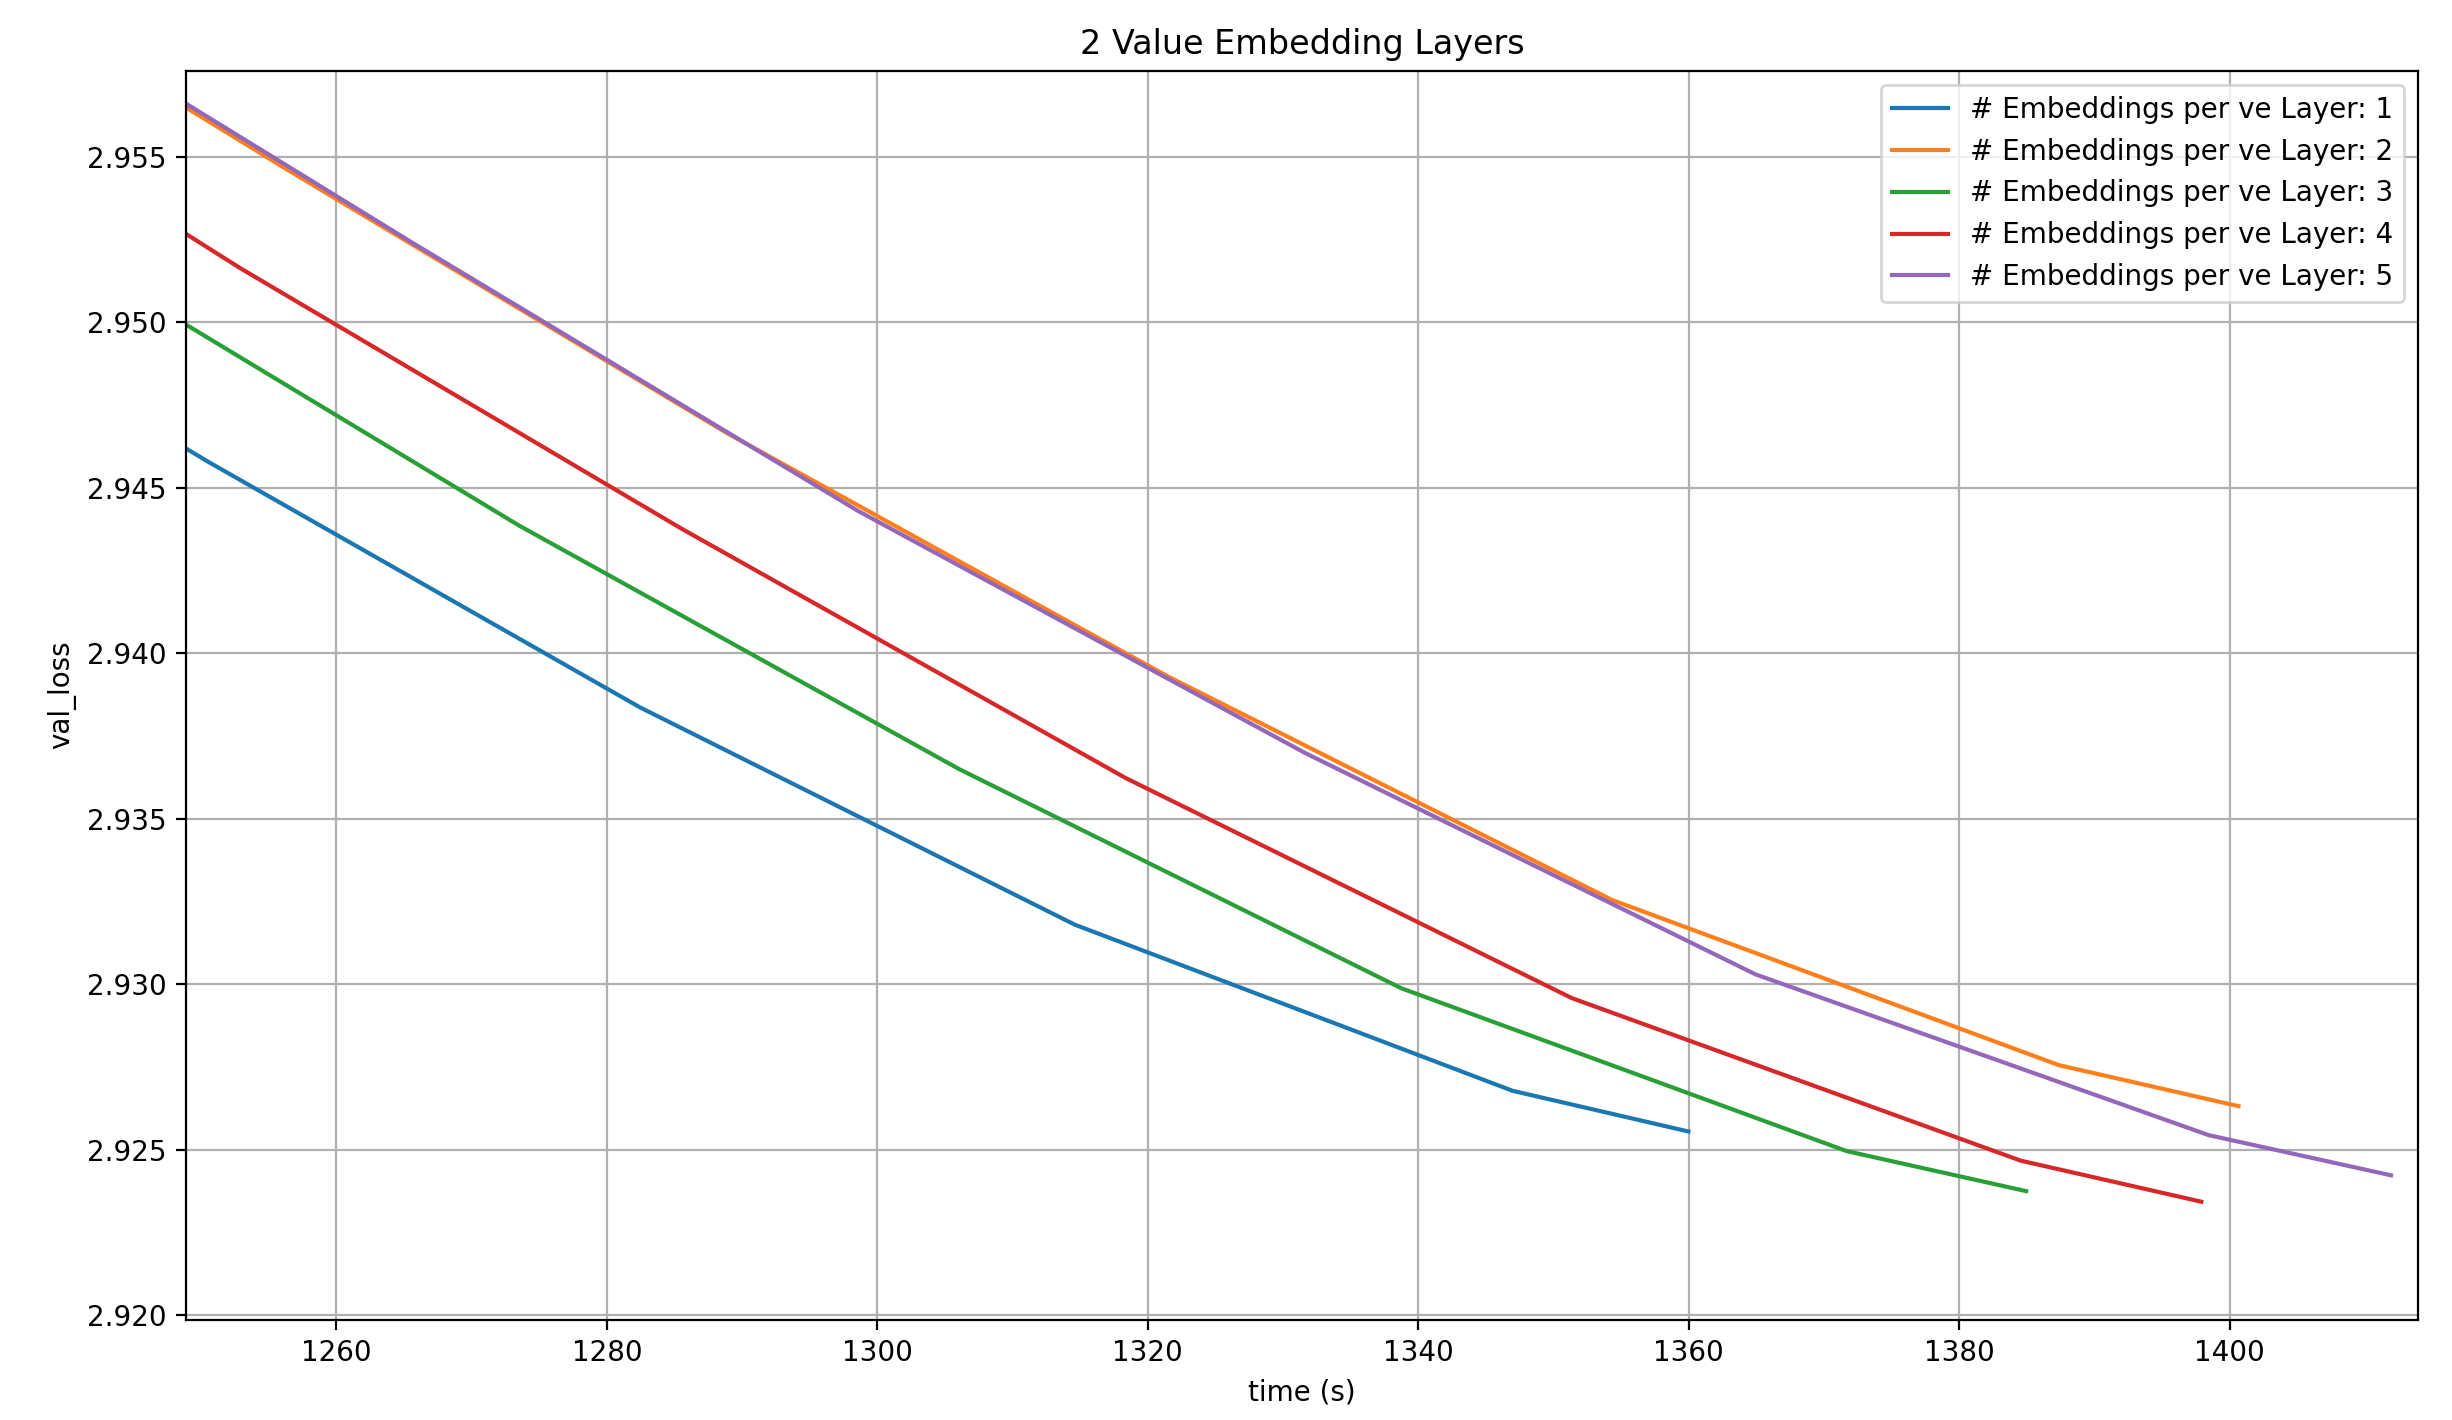
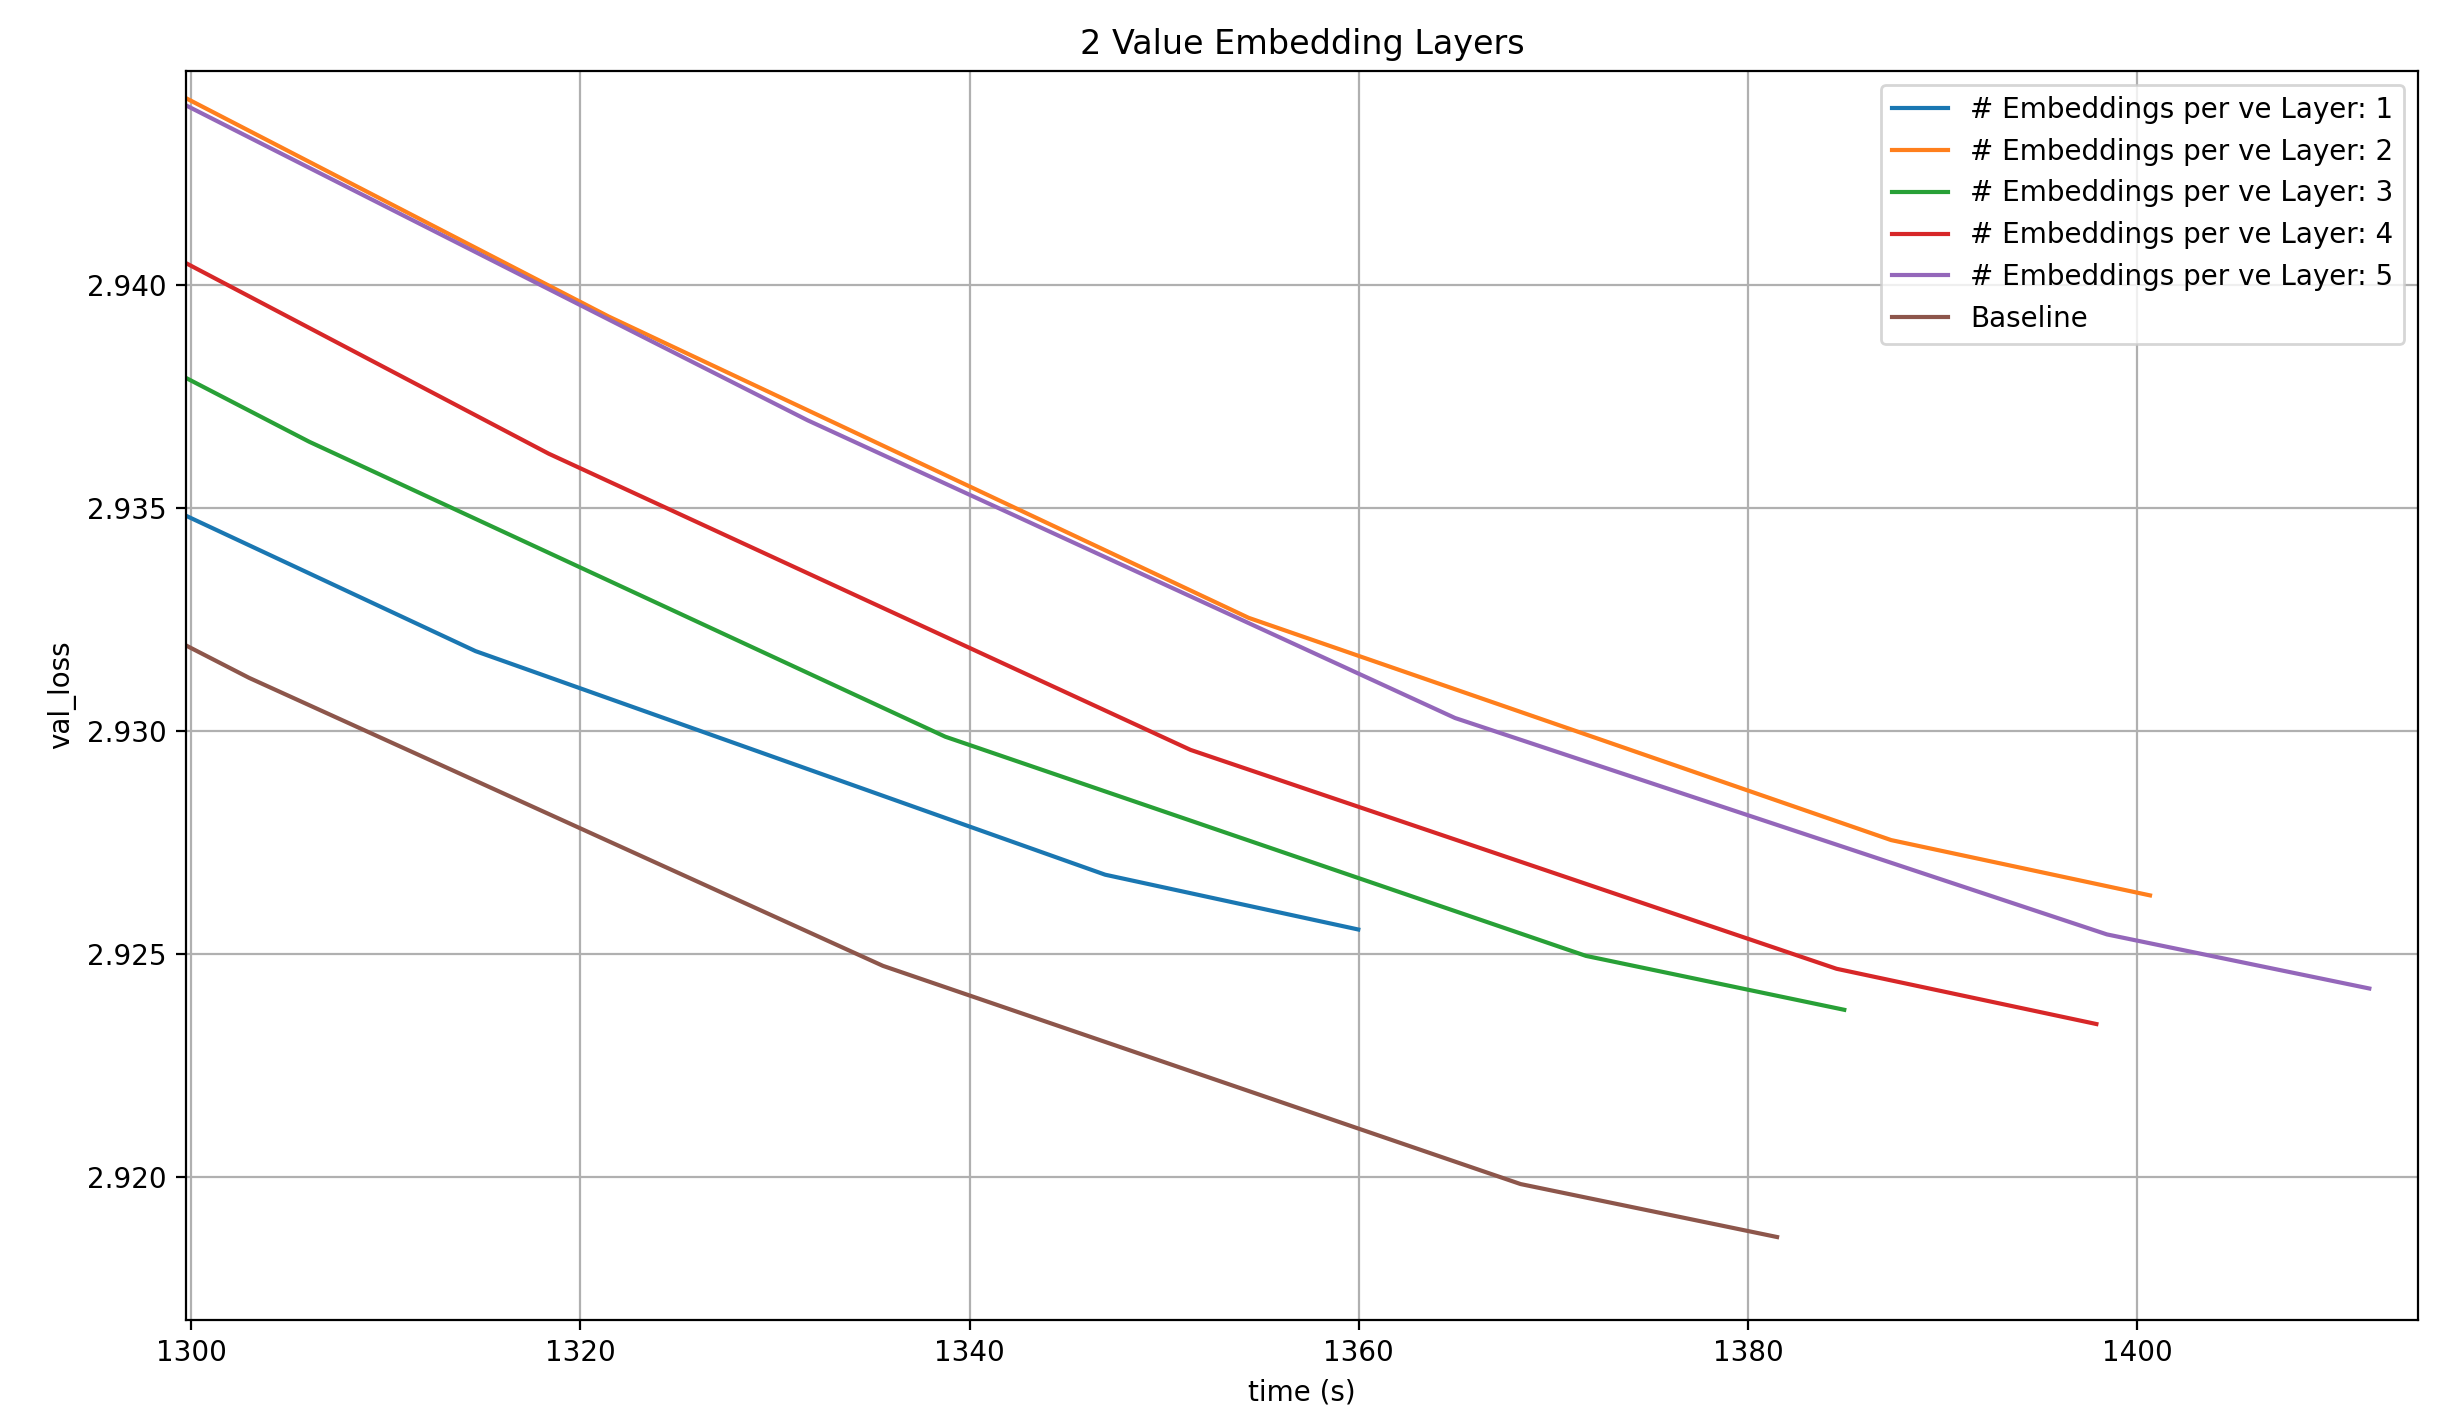
modded-nanogpt-others-ideas: small progress

diff --git a/contents/modded-nanogpt-others-ideas/article.md b/contents/modded-nanogpt-others-ideas/article.md
@@ -71,7 +71,25 @@ Let's look at the same normalization, but over the columns:
 
 The trend here is very strong: the more Value Embeddings we have, the lower the loss. This tends to happen more clearly when the number of Embedding Modules per Value Embedding is higher, showing again that each extra Embedding Module per Value Embedding gives more oomph if there are more Value Embeddings, but that trend isn't completely consistent.
 
-TODO: plots over time
+Of course, this is modded-nanogpt, so we have to look at the wallclock times. I will do this separately for every number of Value Embeddings, to make the plots a bit more readable. I will keep the run with 4 Value Embeddings and 1 Embeding Module per Value Embedding in each of the plots, because it is the baseline.
+
+![Val loss time 1 VE](images/val_loss_time_1ve.png)
+
+With one Value Embedding, none of the runs even come close to the baseline.
+
+![Val loss time 2 VE](images/val_loss_time_2ve.png)
+
+With two Value Embeddings, the same is true.
+
+![Val loss time 3 VE](images/val_loss_time_3ve.png)
+
+Three Value Embeddings with a single Embedding Module each is better than four Value Embeddings with one Embedding Module each over most of the run, but doesn't reach the target loss in the given number of steps. I did make this comparison [in this article](https://snimu.github.io/2025/10/07/modded-nanogpt-value-embeddings.html), where I showed that this isn't a record.
+
+![Val loss time 4 VE](images/val_loss_time_4ve.png)
+
+With four Value Embeddings, the 8xH100 clearly start reaching their limit, and while the per-step loss gets lower, the wallclock time to a loss of 2.92 get worse and worse. In fact, the reason I didn't try five Value Embeddings is that the node ran out of memory.
+
+In summary, these techniques do not lead to a new record.
 
 ### Multiple Embedding Modules per Value Embedding, one Value Embedding applied to multiple layers
 
@@ -113,4 +131,23 @@ The above plot shows that no, this isn't the case.
 
 What is interesting about it is that smaller embeddings reduce the runtime so much that they reach the same loss faster than the larger embeddings. However, almost none of them even cross the 2.92 loss target, so it hardly matters.
 
-One possible explanation for the underperformance of these techniques is that a linear transformation of a bunch of vectors, or a bunch of linear transformations of a single vector, just doesn't allow for much expressive power. So I tried to also use ReLU after the linear transformation. In the 1024->1024 case, this allows the different linear transformations to set different parts of the single Embedding Module to zero, while in the other projections, the single linear transformation is now capable of 
+One possible explanation for the underperformance of these techniques is that a linear transformation of a bunch of vectors, or a bunch of linear transformations of a single vector, just doesn't allow for much expressive power. So I tried to also use ReLU after the linear transformation. In the 1024->1024 case, this allows the different linear transformations to set different parts of the single Embedding Module to zero, while in the other projections, the different Embedding Modules are now capable of eliciting only parts of the Linear Layer weights (which are what summed up to produce the output).
+
+Here are the results:
+
+![Val loss projection ReLU step](images/val_loss_projection_relu_step.png)
+
+Some observations:
+
+- This is much better than without the ReLU, as expected
+- The 1024->1024 projection is by far the worst
+- For the others, the trend seems to be that smaller embeddings are better not just in wallclock time, but even in per-step performance. However, this trend reverses when the embeddings get too small: 128->1024 is best, and 64->1024 is only the second best
+- The 128->1024 projection is actually better per-step than the baseline!
+
+That last point is interesting, because the 128->1024 projection should be fairly efficient. Let's look at the loss over time:
+
+![Val loss projection ReLU time](images/val_loss_projection_relu_time.png)
+
+Unfortunately, the large number of Embedding Modules together with the linear transformation are just too slow. This shouldn't be surprising: The 64->1024 projection has as many Embedding parameters as simply having a second full input embedding (64*16=1024, and we keep one of the two input embeddings from the record). And the linear transformation adds more parameters, and an expensive matrix operation.
+
+Since the per-step performance already starts to deterioate as we go from the 128->1024 to the 64->1024 projection, lowering the Embedding size further is unlikely to improve wallclock time.
